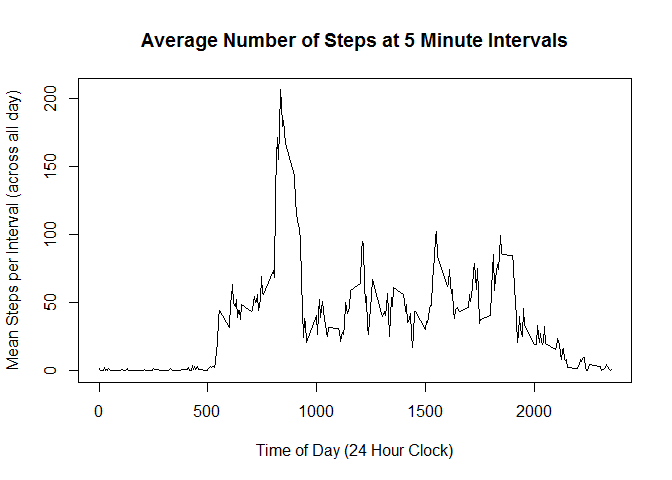
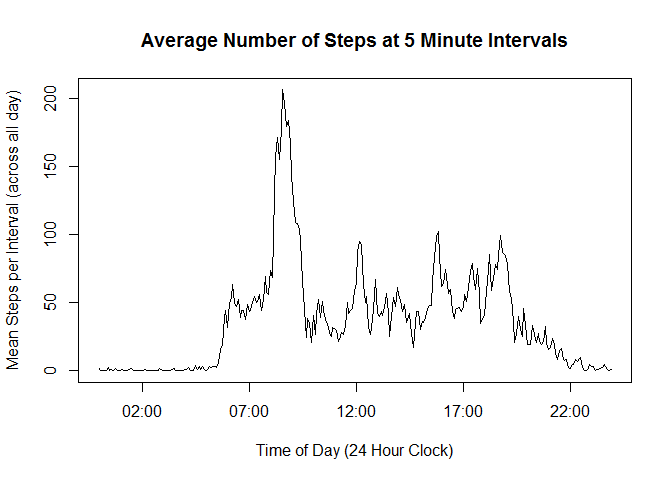
with parsing for time for intervals
with parsing for time for intervals and also clearer reasoning for the
method to fill in the NA values

diff --git a/PA1_template.html b/PA1_template.html
@@ -137,9 +137,12 @@ intervals&lt;-group_by(activity,interval)
 steps_by_day&lt;-summarise(intervals,mean(steps,na.rm=TRUE))
 ## rename column name
 colnames(steps_by_day)[2]&lt;-&quot;Mean_Steps&quot;
+## format intervals
+steps_by_day&lt;-mutate(steps_by_day,formatted_interval=sprintf(&quot;%04d&quot;, interval))
+steps_by_day&lt;-mutate(steps_by_day,parsed_interval=parse_date_time(formatted_interval,&quot;hm&quot;))
 ## plot average no. steps
-plot(steps_by_day$interval,steps_by_day$Mean_Steps, type=&quot;l&quot;, ylab=&quot;Mean Steps per Interval (across all day)&quot;,xlab=&quot;Time of Day (24 Hour Clock)&quot;,main=&quot;Average Number of Steps at 5 Minute Intervals&quot;)</code></pre>
[1 lines of base64/hex data omitted]
+plot(steps_by_day$parsed_interval,steps_by_day$Mean_Steps, type=&quot;l&quot;, ylab=&quot;Mean Steps per Interval (across all day)&quot;,xlab=&quot;Time of Day (24 Hour Clock)&quot;,main=&quot;Average Number of Steps at 5 Minute Intervals&quot;)</code></pre>
[1 lines of base64/hex data omitted]
 <p>Which 5-minute interval, on average across all the days in the dataset, contains the maximum number of steps?</p>
 <pre class="r"><code>## calculate max from the steps_by_day table
 max_steps&lt;-max(steps_by_day$Mean_Steps)
@@ -157,8 +160,9 @@ complete_cases&lt;-complete.cases(activity)
 ## print out number of rows that aren't complete cases
 print(as.data.frame(table(complete_cases))[1,2])</code></pre>
 <pre><code>## [1] 2304</code></pre>
-<pre class="r"><code>## Devise a strategy for filling in all of the missing values in the dataset. The strategy does not need to be sophisticated. For example, you could use the mean/median for that day, or the mean for that 5-minute interval, etc.
-## using the steps_by_day table already created with mean steps per interval combine into a new value
+<pre class="r"><code>## Devise a strategy for filling in all of the missing values in the dataset. The strategy does not need to be sophisticated. For example, you could use the mean/median for that day, or the mean for that 5-minute interval, etc.</code></pre>
+<p><em>Strategy for filling in the missing values:</em><br />* use existing steps by day table and combine it with the activity table<br />* create a function that assesses if the steps value in the combined table is NA and if it is replaces it with the mean steps for that particular day i.e. what’s in the mean steps field for that row<br />* run function against the steps value to create a ‘new_steps’ column</p>
+<pre class="r"><code>## using the steps_by_day table already created with mean steps per interval combine into a new value
 activity&lt;-join(activity,steps_by_day)</code></pre>
 <pre><code>## Joining by: interval</code></pre>
 <pre class="r"><code>## create function to assess if steps is NA or not
@@ -178,9 +182,8 @@ activity$new_steps&lt;-as.integer(activity$new_steps)
 ## create new dataset with replaced values
 revised_activities&lt;-select(activity,new_steps,date,interval)
 ## rename new_steps to steps so can use same logic 
-colnames(revised_activities)[1]&lt;-&quot;steps&quot;
-
-## group by date
+colnames(revised_activities)[1]&lt;-&quot;steps&quot;</code></pre>
+<pre class="r"><code>## group by date
 revised_activities&lt;-group_by(revised_activities,date)
 ## calculate total steps
 total_revised_steps&lt;-summarise(revised_activities,sum(steps,na.rm=TRUE))
@@ -354,6 +357,11 @@ revised_activities&lt;-mutate(revised_activities,wknd_wdy=weekend_or_weekday(day
 ## length &gt; 1 and only the first element will be used</code></pre>
 <pre><code>## Warning in if (day == &quot;Saturday&quot; | day == &quot;Sunday&quot;) {: the condition has
 ## length &gt; 1 and only the first element will be used</code></pre>
+<pre class="r"><code>## format the intervals to make plot clearer
+revised_activities&lt;-mutate(revised_activities,formatted_interval=sprintf(&quot;%04d&quot;, interval))
+revised_activities&lt;-mutate(revised_activities,parsed_interval=parse_date_time(formatted_interval,&quot;hm&quot;))</code></pre>
+<pre class="r"><code>qplot(parsed_interval,steps,data=revised_activities,facets=.~wknd_wdy,geom=&quot;line&quot;)</code></pre>
[1 lines of base64/hex data omitted]
 </div>
 
 

diff --git a/PA1_template.md b/PA1_template.md
@@ -169,8 +169,11 @@ intervals<-group_by(activity,interval)
 steps_by_day<-summarise(intervals,mean(steps,na.rm=TRUE))
 ## rename column name
 colnames(steps_by_day)[2]<-"Mean_Steps"
+## format intervals
+steps_by_day<-mutate(steps_by_day,formatted_interval=sprintf("%04d", interval))
+steps_by_day<-mutate(steps_by_day,parsed_interval=parse_date_time(formatted_interval,"hm"))
 ## plot average no. steps
-plot(steps_by_day$interval,steps_by_day$Mean_Steps, type="l", ylab="Mean Steps per Interval (across all day)",xlab="Time of Day (24 Hour Clock)",main="Average Number of Steps at 5 Minute Intervals")
+plot(steps_by_day$parsed_interval,steps_by_day$Mean_Steps, type="l", ylab="Mean Steps per Interval (across all day)",xlab="Time of Day (24 Hour Clock)",main="Average Number of Steps at 5 Minute Intervals")
 ```
 
 ![](PA1_template_files/figure-html/unnamed-chunk-5-1.png) 
@@ -210,6 +213,15 @@ print(as.data.frame(table(complete_cases))[1,2])
 
 ```r
 ## Devise a strategy for filling in all of the missing values in the dataset. The strategy does not need to be sophisticated. For example, you could use the mean/median for that day, or the mean for that 5-minute interval, etc.
+```
+
+_Strategy for filling in the missing values:_  
+* use existing steps by day table and combine it with the activity table  
+* create a function that assesses if the steps value in the combined table is NA and if it is replaces it with the mean steps for that particular day i.e. what's in the mean steps field for that row  
+* run function against the steps value to create a 'new_steps' column
+
+
+```r
 ## using the steps_by_day table already created with mean steps per interval combine into a new value
 activity<-join(activity,steps_by_day)
 ```
@@ -237,7 +249,10 @@ activity$new_steps<-as.integer(activity$new_steps)
 revised_activities<-select(activity,new_steps,date,interval)
 ## rename new_steps to steps so can use same logic 
 colnames(revised_activities)[1]<-"steps"
+```
 
+
+```r
 ## group by date
 revised_activities<-group_by(revised_activities,date)
 ## calculate total steps
@@ -247,7 +262,7 @@ colnames(total_revised_steps)[2]<-"total_steps"
 hist(total_revised_steps$total_steps,main="Revised Histogram of Total Steps (data grouped by day)",xlab="Total Steps by Day")
 ```
 
-![](PA1_template_files/figure-html/unnamed-chunk-7-1.png) 
+![](PA1_template_files/figure-html/unnamed-chunk-9-1.png) 
 
 ```r
 ## new mean value
@@ -664,4 +679,17 @@ revised_activities<-mutate(revised_activities,wknd_wdy=weekend_or_weekday(day_of
 ## Warning in if (day == "Saturday" | day == "Sunday") {: the condition has
 ## length > 1 and only the first element will be used
 ```
+
+```r
+## format the intervals to make plot clearer
+revised_activities<-mutate(revised_activities,formatted_interval=sprintf("%04d", interval))
+revised_activities<-mutate(revised_activities,parsed_interval=parse_date_time(formatted_interval,"hm"))
+```
+
+
+```r
+qplot(parsed_interval,steps,data=revised_activities,facets=.~wknd_wdy,geom="line")
+```
+
+![](PA1_template_files/figure-html/unnamed-chunk-12-1.png) 
 
